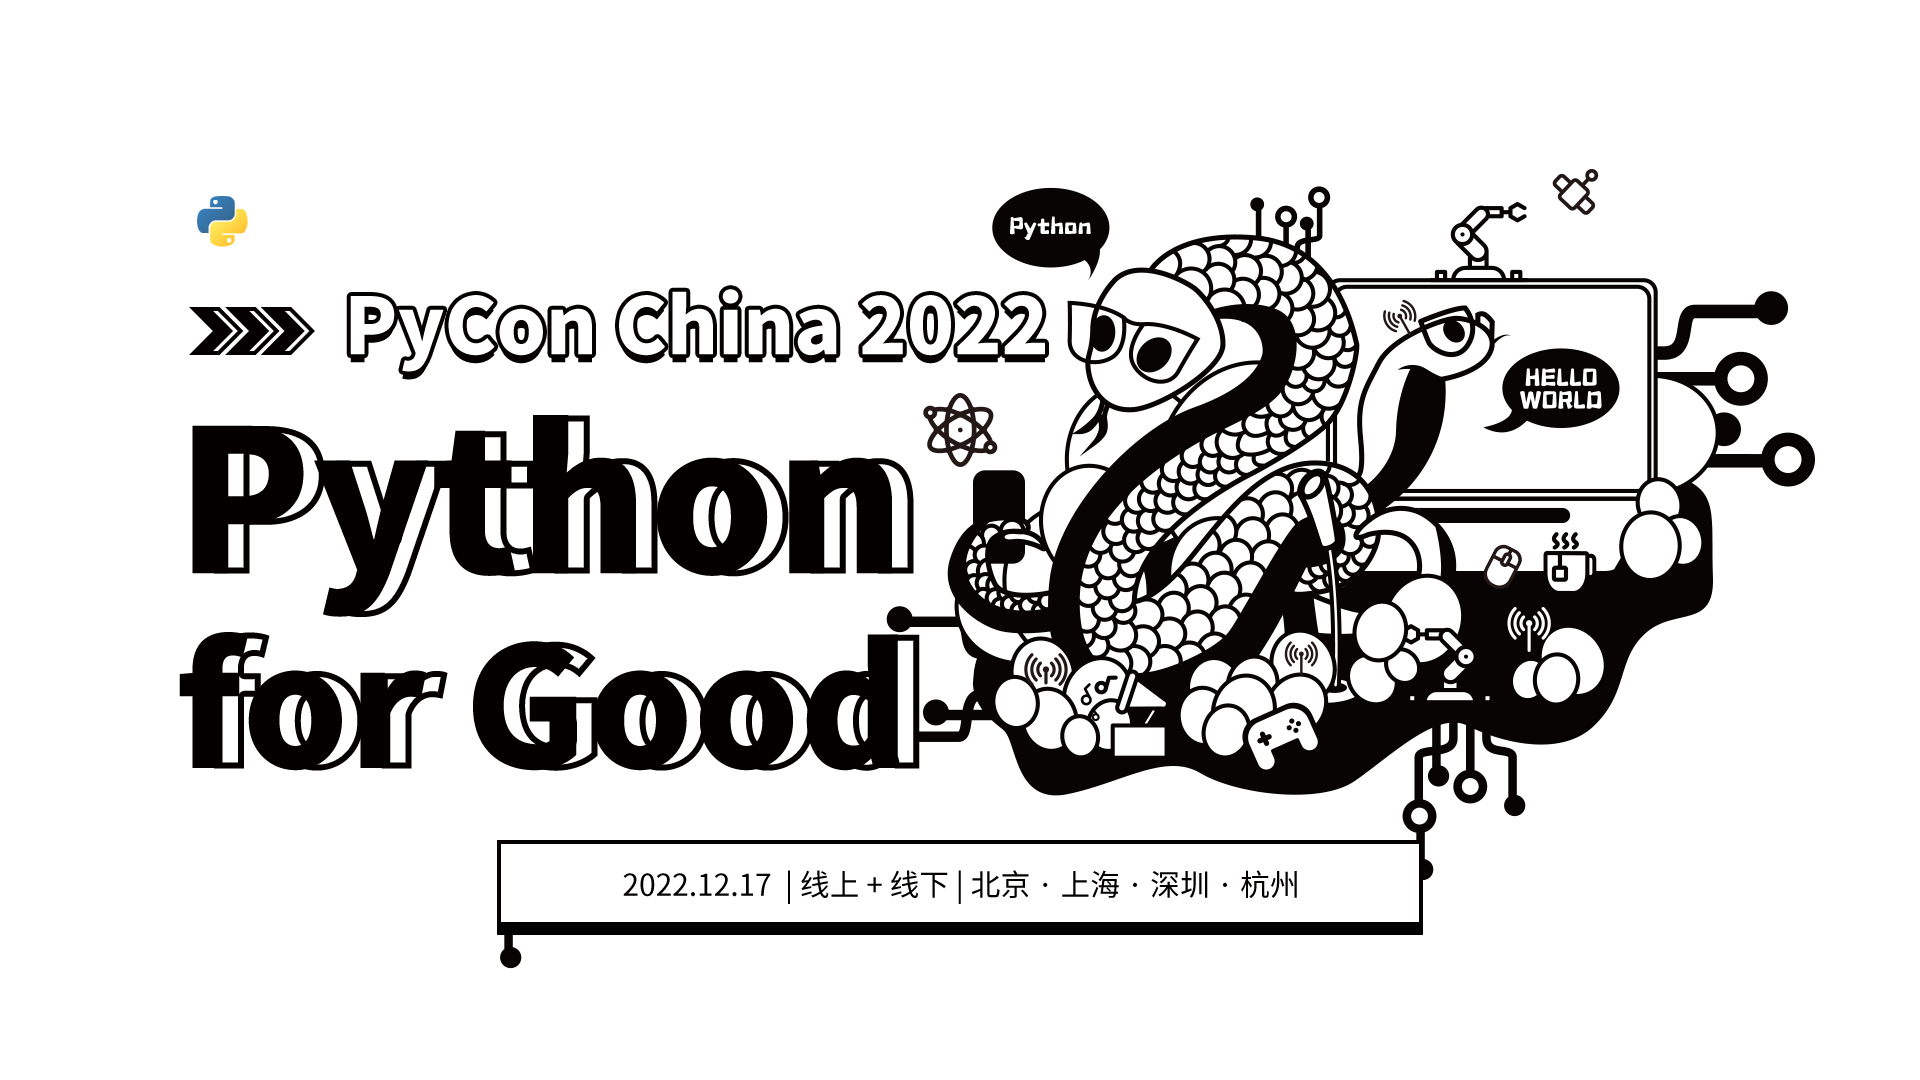
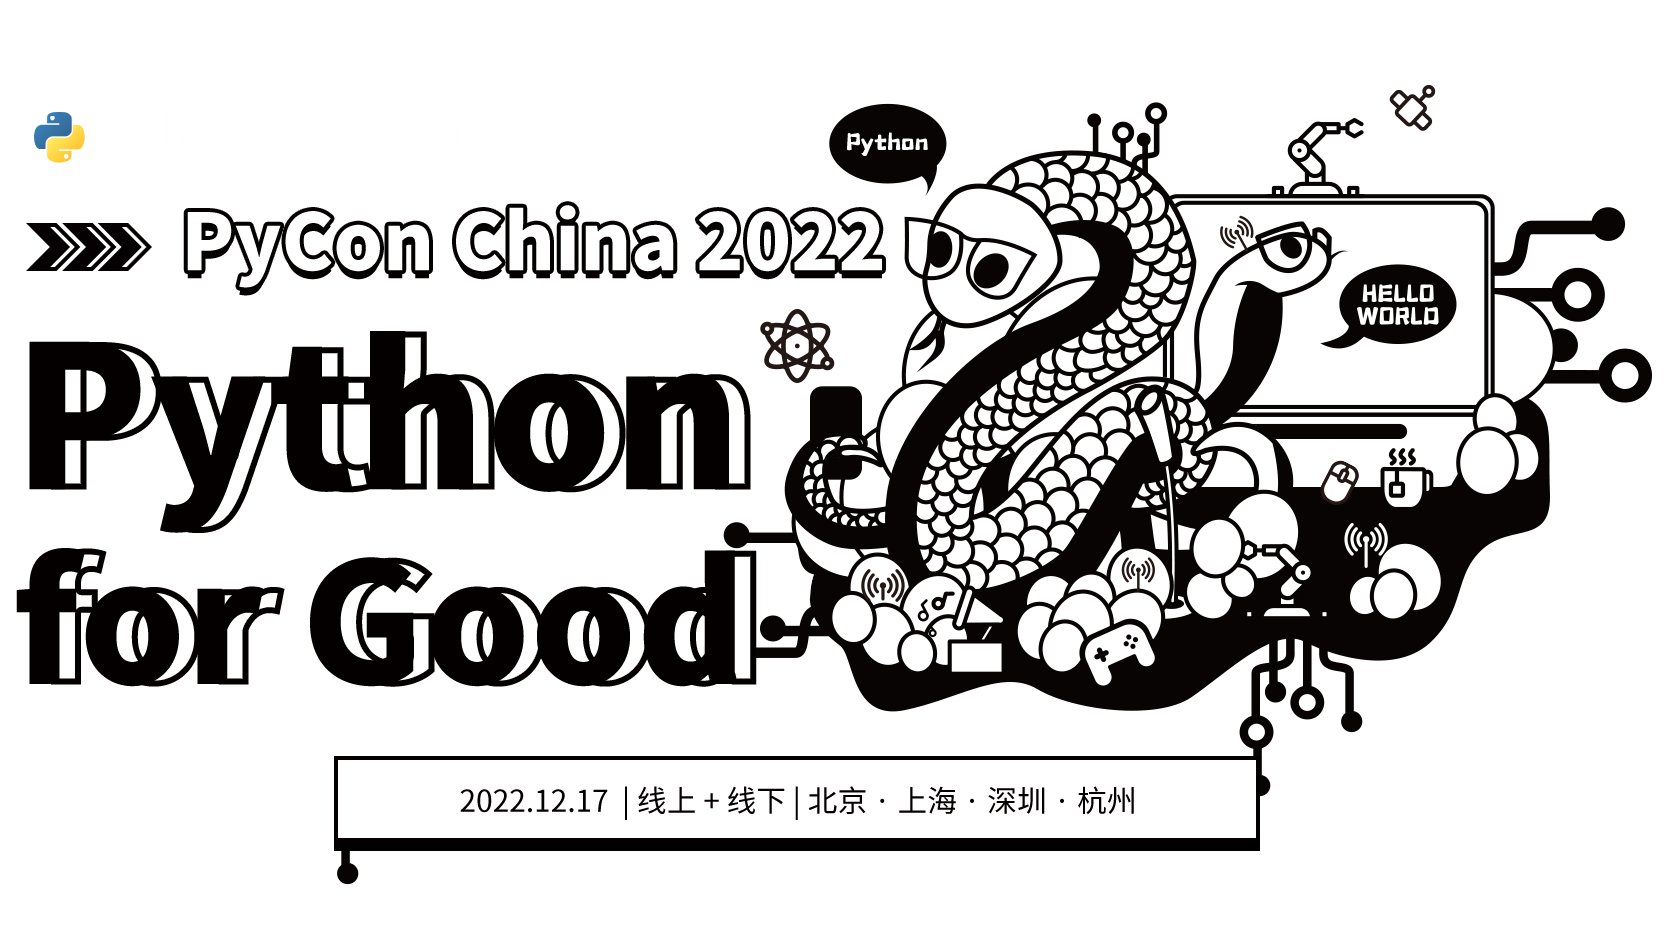
Deploy 2022 website

Changed region(s): [[0.0, 0.0924, 0.9928, 0.9544], [0.0, 0.1231, 0.0621, 0.1847]]

diff --git a/2022/index.html b/2022/index.html
@@ -5,4 +5,4 @@
     btn.addEventListener("click", () => {
       menu.classList.toggle("hidden");
     });
-  </script></nav><main class="mx-auto max-w-6xl p-2"><figure><img alt="PyConChina 2022" class="w-full" src="banner.png?h=9488359d"/></figure><div class="flex justify-center space-x-2 lg:space-x-4 py-2 text-4xl font-bold"><a class="py-2 px-2 text-black bg-white hover:bg-gray-200 transition duration-300 border-solid border-2 border-black shadow-lg" href="shanghai/">上海</a> <a class="py-2 px-2 text-black bg-white hover:bg-gray-200 transition duration-300 border-solid border-2 border-black shadow-lg" href="shenzhen/">深圳</a> <a class="py-2 px-2 text-black bg-white hover:bg-gray-200 transition duration-300 border-solid border-2 border-black shadow-lg" href="hangzhou/">杭州</a> <a class="py-2 px-2 text-black bg-white hover:bg-gray-200 transition duration-300 border-solid border-2 border-black shadow-lg" href="beijing/">北京</a></div><section><h1 class="text-4xl my-6 flex items-center space-x-2"><img src="snake.png?h=3de87b8a"/><span class="font-bitmap">PyCon China 2022 来啦！</span></h1><div class="prose max-w-none shadow-xl border-2 border-black border-solid bg-white p-4"><p>转眼间2022已经过去大半年，这一年对于很多人来说应该都有着不同寻常的意义。实际上对于 Python 来说，过去这一年，也是特殊的一年。</p><p>在过去的一年里，Python 经历了多个大版本的迭代，在社区开发者的共同努力下，在语法特性，语言性能等方面得到了多方面史无前例的提升，为 Python 这⻔有着悠久历史的语言注入了新的活力与生命力。</p><p>你可能已经受益于 Python 这一年来的⻜速发展，也可能是在继续观望着 Python 未来的进程。不管怎么说，你可能都希望有这样一个机会，能同不同的人去交流，或是分享自己对于 Python 的真知灼⻅，或是从别人的经历中学习什么。</p><p>如大家所愿，PyCon China 2022 来了！今年，我们将一如既往为大家提供一个展现自我，也倾听他人的舞台，让大家能在这里尽情地享受 Python 带来的乐趣。</p><p>今年的 PyCon China 将如同往年一样，采用线上、线下相结合的模式。我们将在北京/上海/深圳/杭州四城举办线下会场，同时提供在线直播，为大家提供线下、线上的交流机会。</p><p><strong>大会时间：</strong>2022年12月17日</p><p><strong>大会形式：</strong>线下相聚、线上直播</p><p><strong>大会地址：</strong>北京、上海、深圳、杭州</p></div></section><section><h1 class="text-4xl my-6 flex items-center space-x-2"><img src="snake.png?h=3de87b8a"/><span class="font-bitmap">讲师/议题征集</span></h1><div class="prose max-w-none shadow-xl border-2 border-black border-solid bg-white p-4"><p>今年，我们将聚焦语言特性、工程实践、人工智能、 运维、Web开发、量化交易、安全几大话题。 如果你在这些领域有所涉猎，同时想向全国的 Python 开发者们分享你自己的经验与理解，那么别犹豫，请务必联系我们！</p><p>请填写表单成为大会讲师：</p><p><a href="https://jinshuju.net/f/qh1MX5">https://jinshuju.net/f/qh1MX5</a></p></div></section><section><h1 class="text-4xl my-6 flex items-center space-x-2"><img src="snake.png?h=3de87b8a"/><span class="font-bitmap">志愿者招募</span></h1><div class="prose max-w-none shadow-xl border-2 border-black border-solid bg-white p-4"><p>与此同时，一个大会的成功举行，离不开许许多多幕后伙伴的共同努力。如果你对于大会的组织、会务、媒体、翻译等方向的工作感兴趣， 想要更多地参与到中国的 Python 开发者社区中来，那么也请不要犹豫，加入我们，一起让 PyCon China 以及中国 Python 开发者社区变得越来越好！</p><p>请填写表单成为大会志愿者：</p><p><a href="https://jinshuju.net/f/npy035">https://jinshuju.net/f/npy035</a></p></div></section><section><h1 class="text-4xl my-6 flex items-center space-x-2"><img src="snake.png?h=3de87b8a"/><span class="font-bitmap">主办方及合作伙伴</span></h1><div class="prose max-w-none shadow-xl border-2 border-black border-solid bg-white p-4"><style>.partners img { display: inline-block; max-width: 15rem; }</style><div class="text-center partners"><h2>主办方</h2><p><a href="https://pychina.org"><img alt="PyChina" src="partners/pychina-full.png" title="PyChina"/></a></p><h2>白金赞助</h2><p><a href="https://openanolis.cn/"><img alt="龙蜥社区" src="partners/OpenAnolis.png"/></a> <a href="https://azure.microsoft.com/"><img alt="微软 Azure" src="partners/azure.jpg" title="Microsoft Azure"/></a></p><h2>白银赞助</h2><p><a href="https://jina.ai/"><img alt="Jina AI" src="partners/jina.svg" title="Jina AI"/></a></p><h2>特别支持伙伴</h2><p><a href="https://developer.microsoft.com/reactor"><img alt="Microsoft Reactor" src="partners/reactor.png" title="Microsoft Reactor"/></a> <a href="https://www.i-lab.sh.cn/"><img alt="ilab云赛空间" src="partners/i-lab.jpg" title="i-lab云赛空间"/></a><br/> <a href="http://www.sikuaikeji.com/"><img alt="四块科技" src="partners/4-squares.png" title="四块科技"/></a> <a href="https://matpool.com/"><img alt="矩池云" src="partners/matpool.png" title="矩池云"/></a></p><h2>战略媒体伙伴</h2><p><a href="https://www.csdn.net/"><img alt="CSDN" src="partners/csdn.png" title="CSDN"/></a> <a href="https://segmentfault.com/"><img alt="思否" src="partners/segmentfault.png" title="思否"/></a></p><h2>社区合作伙伴</h2><p><a href="https://www.infoq.cn/"><img alt="InforQ" src="partners/inforq.png" title="InforQ极客传媒"/></a></p></div></div></section></main><footer class="bg-white mt-8 py-4 border-t-2 border-solid border-black"><div class="max-w-6xl mx-auto px-4 flex justify-between"><section class="w-1/3"><h1 class="text-lg font-bold p-2">导航</h1><a class="block p-2 hover:text-primary transition duration-300" href="./">首页</a><div class="p-2">大会</div><div class="flex flex-wrap space-x-4 pl-6 py-2 text-sm"><a class="block hover:text-primary transition duration-300" href="about/">关于大会</a> <a class="block hover:text-primary transition duration-300" href="cfp/">讲师/议题征集</a> <a class="block hover:text-primary transition duration-300" href="partners/">合作伙伴</a></div><div class="p-2">组委会</div><div class="flex flex-wrap space-x-4 pl-6 py-2 text-sm"><a class="block hover:text-primary transition duration-300" href="volunteer/">成为志愿者</a></div></section><section class="w-1/3 border-l border-gray-200"><h1 class="text-lg font-bold p-2">演讲</h1><a class="block p-2 hover:text-primary transition duration-300" href="beijing/">北京</a> <a class="block p-2 hover:text-primary transition duration-300" href="shanghai/">上海</a> <a class="block p-2 hover:text-primary transition duration-300" href="shenzhen/">深圳</a> <a class="block p-2 hover:text-primary transition duration-300" href="hangzhou/">杭州</a></section><section class="w-1/3 border-l border-gray-200 p-2"><h1 class="text-lg font-bold">主办方</h1><p><a href="https://pychina.org" target="_blank"><img alt="PyChina" class="w-full" src="pychina-logo.jpeg"/></a></p><div class="flex flex-wrap items-center justify-center mb-2 space-x-1"><a class="hover:text-primary transition duration-300 mr-1" href="https://github.com/PyConChina/PyConChina2022" target="_blank"><svg aria-hidden="true" class="w-8 h-8" preserveAspectRatio="xMidYMid meet" role="img" viewBox="0 0 24 24" xmlns="http://www.w3.org/2000/svg" xmlns:xlink="http://www.w3.org/1999/xlink"><path d="M12 2A10 10 0 0 0 2 12c0 4.42 2.87 8.17 6.84 9.5c.5.08.66-.23.66-.5v-1.69c-2.77.6-3.36-1.34-3.36-1.34c-.46-1.16-1.11-1.47-1.11-1.47c-.91-.62.07-.6.07-.6c1 .07 1.53 1.03 1.53 1.03c.87 1.52 2.34 1.07 2.91.83c.09-.65.35-1.09.63-1.34c-2.22-.25-4.55-1.11-4.55-4.92c0-1.11.38-2 1.03-2.71c-.1-.25-.45-1.29.1-2.64c0 0 .84-.27 2.75 1.02c.79-.22 1.65-.33 2.5-.33c.85 0 1.71.11 2.5.33c1.91-1.29 2.75-1.02 2.75-1.02c.55 1.35.2 2.39.1 2.64c.65.71 1.03 1.6 1.03 2.71c0 3.82-2.34 4.66-4.57 4.91c.36.31.69.92.69 1.85V21c0 .27.16.59.67.5C19.14 20.16 22 16.42 22 12A10 10 0 0 0 12 2Z" fill="currentColor"></path></svg></a> <a class="hover:text-primary transition duration-300 mr-1" href="https://twitter.com/PyConChina" target="_blank"><svg class="w-8 h-8" viewBox="0 0 24 24"><path d="M22.46 6c-.77.35-1.6.58-2.46.69c.88-.53 1.56-1.37 1.88-2.38c-.83.5-1.75.85-2.72 1.05C18.37 4.5 17.26 4 16 4c-2.35 0-4.27 1.92-4.27 4.29c0 .34.04.67.11.98C8.28 9.09 5.11 7.38 3 4.79c-.37.63-.58 1.37-.58 2.15c0 1.49.75 2.81 1.91 3.56c-.71 0-1.37-.2-1.95-.5v.03c0 2.08 1.48 3.82 3.44 4.21a4.22 4.22 0 0 1-1.93.07a4.28 4.28 0 0 0 4 2.98a8.521 8.521 0 0 1-5.33 1.84c-.34 0-.68-.02-1.02-.06C3.44 20.29 5.7 21 8.12 21C16 21 20.33 14.46 20.33 8.79c0-.19 0-.37-.01-.56c.84-.6 1.56-1.36 2.14-2.23Z" fill="currentColor"></path></svg></a> <a class="hover:text-primary transition duration-300 mr-1" href="https://pychina.org/#gh" target="_blank"><svg class="w-8 h-8" viewBox="0 0 24 24"><path d="M9.5 4C5.36 4 2 6.69 2 10c0 1.89 1.08 3.56 2.78 4.66L4 17l2.5-1.5c.89.31 1.87.5 2.91.5A5.22 5.22 0 0 1 9 14c0-3.31 3.13-6 7-6c.19 0 .38 0 .56.03C15.54 5.69 12.78 4 9.5 4m-3 2.5a1 1 0 0 1 1 1a1 1 0 0 1-1 1a1 1 0 0 1-1-1a1 1 0 0 1 1-1m5 0a1 1 0 0 1 1 1a1 1 0 0 1-1 1a1 1 0 0 1-1-1a1 1 0 0 1 1-1M16 9c-3.31 0-6 2.24-6 5s2.69 5 6 5c.67 0 1.31-.08 1.91-.25L20 20l-.62-1.87C20.95 17.22 22 15.71 22 14c0-2.76-2.69-5-6-5m-2 2.5a1 1 0 0 1 1 1a1 1 0 0 1-1 1a1 1 0 0 1-1-1a1 1 0 0 1 1-1m4 0a1 1 0 0 1 1 1a1 1 0 0 1-1 1a1 1 0 0 1-1-1a1 1 0 0 1 1-1Z" fill="currentColor"></path></svg></a><div class="text-sm text-center"><p>合作及其他更多事宜请联系</p><p>CynthiaXin1</p><p>PyChina © 2022</p></div></div></section></div></footer></body></html>
+  </script></nav><main class="mx-auto max-w-6xl p-2"><figure><img alt="PyConChina 2022" class="w-full" src="banner.png?h=dc1c27f6"/></figure><div class="flex justify-center space-x-2 lg:space-x-4 py-2 text-4xl font-bold"><a class="py-2 px-2 text-black bg-white hover:bg-gray-200 transition duration-300 border-solid border-2 border-black shadow-lg" href="shanghai/">上海</a> <a class="py-2 px-2 text-black bg-white hover:bg-gray-200 transition duration-300 border-solid border-2 border-black shadow-lg" href="shenzhen/">深圳</a> <a class="py-2 px-2 text-black bg-white hover:bg-gray-200 transition duration-300 border-solid border-2 border-black shadow-lg" href="hangzhou/">杭州</a> <a class="py-2 px-2 text-black bg-white hover:bg-gray-200 transition duration-300 border-solid border-2 border-black shadow-lg" href="beijing/">北京</a></div><section><h1 class="text-4xl my-6 flex items-center space-x-2"><img src="snake.png?h=3de87b8a"/><span class="font-bitmap">PyCon China 2022 来啦！</span></h1><div class="prose max-w-none shadow-xl border-2 border-black border-solid bg-white p-4"><p>转眼间2022已经过去大半年，这一年对于很多人来说应该都有着不同寻常的意义。实际上对于 Python 来说，过去这一年，也是特殊的一年。</p><p>在过去的一年里，Python 经历了多个大版本的迭代，在社区开发者的共同努力下，在语法特性，语言性能等方面得到了多方面史无前例的提升，为 Python 这⻔有着悠久历史的语言注入了新的活力与生命力。</p><p>你可能已经受益于 Python 这一年来的⻜速发展，也可能是在继续观望着 Python 未来的进程。不管怎么说，你可能都希望有这样一个机会，能同不同的人去交流，或是分享自己对于 Python 的真知灼⻅，或是从别人的经历中学习什么。</p><p>如大家所愿，PyCon China 2022 来了！今年，我们将一如既往为大家提供一个展现自我，也倾听他人的舞台，让大家能在这里尽情地享受 Python 带来的乐趣。</p><p>今年的 PyCon China 将如同往年一样，采用线上、线下相结合的模式。我们将在北京/上海/深圳/杭州四城举办线下会场，同时提供在线直播，为大家提供线下、线上的交流机会。</p><p><strong>大会时间：</strong>2022年12月17日</p><p><strong>大会形式：</strong>线下相聚、线上直播</p><p><strong>大会地址：</strong>北京、上海、深圳、杭州</p></div></section><section><h1 class="text-4xl my-6 flex items-center space-x-2"><img src="snake.png?h=3de87b8a"/><span class="font-bitmap">讲师/议题征集</span></h1><div class="prose max-w-none shadow-xl border-2 border-black border-solid bg-white p-4"><p>今年，我们将聚焦语言特性、工程实践、人工智能、 运维、Web开发、量化交易、安全几大话题。 如果你在这些领域有所涉猎，同时想向全国的 Python 开发者们分享你自己的经验与理解，那么别犹豫，请务必联系我们！</p><p>请填写表单成为大会讲师：</p><p><a href="https://jinshuju.net/f/qh1MX5">https://jinshuju.net/f/qh1MX5</a></p></div></section><section><h1 class="text-4xl my-6 flex items-center space-x-2"><img src="snake.png?h=3de87b8a"/><span class="font-bitmap">志愿者招募</span></h1><div class="prose max-w-none shadow-xl border-2 border-black border-solid bg-white p-4"><p>与此同时，一个大会的成功举行，离不开许许多多幕后伙伴的共同努力。如果你对于大会的组织、会务、媒体、翻译等方向的工作感兴趣， 想要更多地参与到中国的 Python 开发者社区中来，那么也请不要犹豫，加入我们，一起让 PyCon China 以及中国 Python 开发者社区变得越来越好！</p><p>请填写表单成为大会志愿者：</p><p><a href="https://jinshuju.net/f/npy035">https://jinshuju.net/f/npy035</a></p></div></section><section><h1 class="text-4xl my-6 flex items-center space-x-2"><img src="snake.png?h=3de87b8a"/><span class="font-bitmap">主办方及合作伙伴</span></h1><div class="prose max-w-none shadow-xl border-2 border-black border-solid bg-white p-4"><style>.partners img { display: inline-block; max-width: 15rem; }</style><div class="text-center partners"><h2>主办方</h2><p><a href="https://pychina.org"><img alt="PyChina" src="partners/pychina-full.png" title="PyChina"/></a></p><h2>白金赞助</h2><p><a href="https://openanolis.cn/"><img alt="龙蜥社区" src="partners/OpenAnolis.png"/></a> <a href="https://azure.microsoft.com/"><img alt="微软 Azure" src="partners/azure.jpg" title="Microsoft Azure"/></a></p><h2>白银赞助</h2><p><a href="https://jina.ai/"><img alt="Jina AI" src="partners/jina.svg" title="Jina AI"/></a></p><h2>特别支持伙伴</h2><p><a href="https://developer.microsoft.com/reactor"><img alt="Microsoft Reactor" src="partners/reactor.png" title="Microsoft Reactor"/></a> <a href="https://www.i-lab.sh.cn/"><img alt="ilab云赛空间" src="partners/i-lab.jpg" title="i-lab云赛空间"/></a><br/> <a href="http://www.sikuaikeji.com/"><img alt="四块科技" src="partners/4-squares.png" title="四块科技"/></a> <a href="https://matpool.com/"><img alt="矩池云" src="partners/matpool.png" title="矩池云"/></a></p><h2>战略媒体伙伴</h2><p><a href="https://www.csdn.net/"><img alt="CSDN" src="partners/csdn.png" title="CSDN"/></a> <a href="https://segmentfault.com/"><img alt="思否" src="partners/segmentfault.png" title="思否"/></a></p><h2>社区合作伙伴</h2><p><a href="https://www.infoq.cn/"><img alt="InforQ" src="partners/inforq.png" title="InforQ极客传媒"/></a></p></div></div></section></main><footer class="bg-white mt-8 py-4 border-t-2 border-solid border-black"><div class="max-w-6xl mx-auto px-4 flex justify-between"><section class="w-1/3"><h1 class="text-lg font-bold p-2">导航</h1><a class="block p-2 hover:text-primary transition duration-300" href="./">首页</a><div class="p-2">大会</div><div class="flex flex-wrap space-x-4 pl-6 py-2 text-sm"><a class="block hover:text-primary transition duration-300" href="about/">关于大会</a> <a class="block hover:text-primary transition duration-300" href="cfp/">讲师/议题征集</a> <a class="block hover:text-primary transition duration-300" href="partners/">合作伙伴</a></div><div class="p-2">组委会</div><div class="flex flex-wrap space-x-4 pl-6 py-2 text-sm"><a class="block hover:text-primary transition duration-300" href="volunteer/">成为志愿者</a></div></section><section class="w-1/3 border-l border-gray-200"><h1 class="text-lg font-bold p-2">演讲</h1><a class="block p-2 hover:text-primary transition duration-300" href="beijing/">北京</a> <a class="block p-2 hover:text-primary transition duration-300" href="shanghai/">上海</a> <a class="block p-2 hover:text-primary transition duration-300" href="shenzhen/">深圳</a> <a class="block p-2 hover:text-primary transition duration-300" href="hangzhou/">杭州</a></section><section class="w-1/3 border-l border-gray-200 p-2"><h1 class="text-lg font-bold">主办方</h1><p><a href="https://pychina.org" target="_blank"><img alt="PyChina" class="w-full" src="pychina-logo.jpeg"/></a></p><div class="flex flex-wrap items-center justify-center mb-2 space-x-1"><a class="hover:text-primary transition duration-300 mr-1" href="https://github.com/PyConChina/PyConChina2022" target="_blank"><svg aria-hidden="true" class="w-8 h-8" preserveAspectRatio="xMidYMid meet" role="img" viewBox="0 0 24 24" xmlns="http://www.w3.org/2000/svg" xmlns:xlink="http://www.w3.org/1999/xlink"><path d="M12 2A10 10 0 0 0 2 12c0 4.42 2.87 8.17 6.84 9.5c.5.08.66-.23.66-.5v-1.69c-2.77.6-3.36-1.34-3.36-1.34c-.46-1.16-1.11-1.47-1.11-1.47c-.91-.62.07-.6.07-.6c1 .07 1.53 1.03 1.53 1.03c.87 1.52 2.34 1.07 2.91.83c.09-.65.35-1.09.63-1.34c-2.22-.25-4.55-1.11-4.55-4.92c0-1.11.38-2 1.03-2.71c-.1-.25-.45-1.29.1-2.64c0 0 .84-.27 2.75 1.02c.79-.22 1.65-.33 2.5-.33c.85 0 1.71.11 2.5.33c1.91-1.29 2.75-1.02 2.75-1.02c.55 1.35.2 2.39.1 2.64c.65.71 1.03 1.6 1.03 2.71c0 3.82-2.34 4.66-4.57 4.91c.36.31.69.92.69 1.85V21c0 .27.16.59.67.5C19.14 20.16 22 16.42 22 12A10 10 0 0 0 12 2Z" fill="currentColor"></path></svg></a> <a class="hover:text-primary transition duration-300 mr-1" href="https://twitter.com/PyConChina" target="_blank"><svg class="w-8 h-8" viewBox="0 0 24 24"><path d="M22.46 6c-.77.35-1.6.58-2.46.69c.88-.53 1.56-1.37 1.88-2.38c-.83.5-1.75.85-2.72 1.05C18.37 4.5 17.26 4 16 4c-2.35 0-4.27 1.92-4.27 4.29c0 .34.04.67.11.98C8.28 9.09 5.11 7.38 3 4.79c-.37.63-.58 1.37-.58 2.15c0 1.49.75 2.81 1.91 3.56c-.71 0-1.37-.2-1.95-.5v.03c0 2.08 1.48 3.82 3.44 4.21a4.22 4.22 0 0 1-1.93.07a4.28 4.28 0 0 0 4 2.98a8.521 8.521 0 0 1-5.33 1.84c-.34 0-.68-.02-1.02-.06C3.44 20.29 5.7 21 8.12 21C16 21 20.33 14.46 20.33 8.79c0-.19 0-.37-.01-.56c.84-.6 1.56-1.36 2.14-2.23Z" fill="currentColor"></path></svg></a> <a class="hover:text-primary transition duration-300 mr-1" href="https://pychina.org/#gh" target="_blank"><svg class="w-8 h-8" viewBox="0 0 24 24"><path d="M9.5 4C5.36 4 2 6.69 2 10c0 1.89 1.08 3.56 2.78 4.66L4 17l2.5-1.5c.89.31 1.87.5 2.91.5A5.22 5.22 0 0 1 9 14c0-3.31 3.13-6 7-6c.19 0 .38 0 .56.03C15.54 5.69 12.78 4 9.5 4m-3 2.5a1 1 0 0 1 1 1a1 1 0 0 1-1 1a1 1 0 0 1-1-1a1 1 0 0 1 1-1m5 0a1 1 0 0 1 1 1a1 1 0 0 1-1 1a1 1 0 0 1-1-1a1 1 0 0 1 1-1M16 9c-3.31 0-6 2.24-6 5s2.69 5 6 5c.67 0 1.31-.08 1.91-.25L20 20l-.62-1.87C20.95 17.22 22 15.71 22 14c0-2.76-2.69-5-6-5m-2 2.5a1 1 0 0 1 1 1a1 1 0 0 1-1 1a1 1 0 0 1-1-1a1 1 0 0 1 1-1m4 0a1 1 0 0 1 1 1a1 1 0 0 1-1 1a1 1 0 0 1-1-1a1 1 0 0 1 1-1Z" fill="currentColor"></path></svg></a><div class="text-sm text-center"><p>合作及其他更多事宜请联系</p><p>CynthiaXin1</p><p>PyChina © 2022</p></div></div></section></div></footer></body></html>
